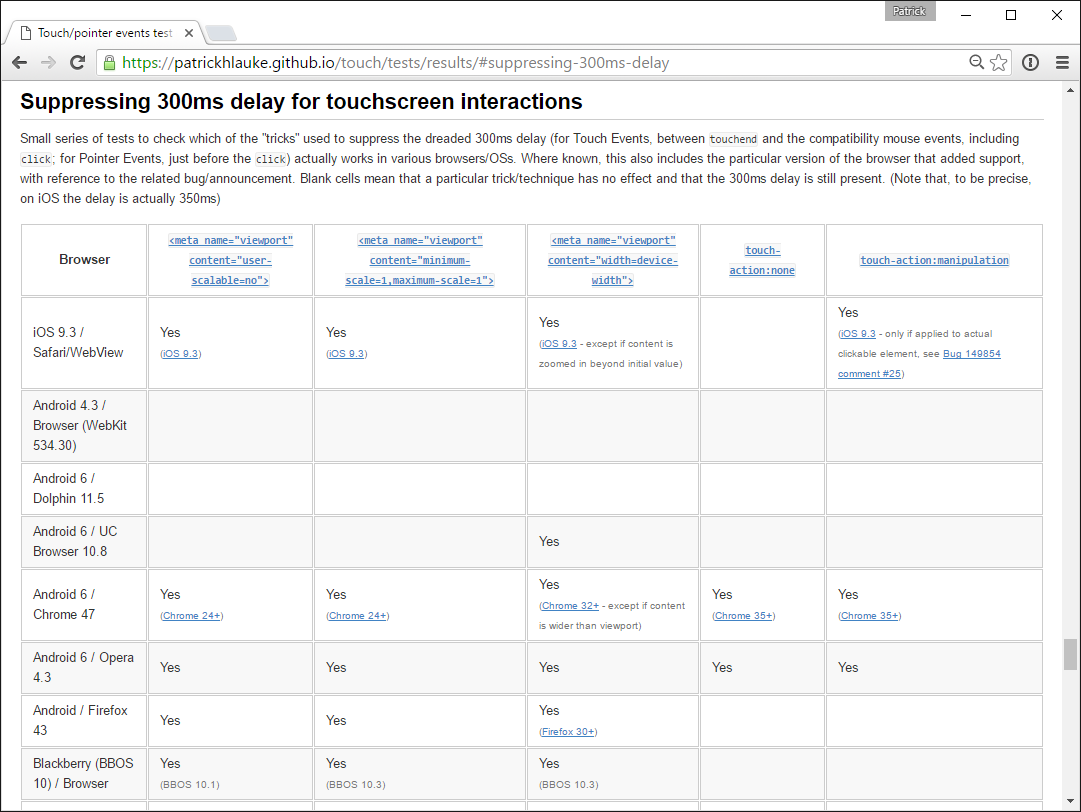
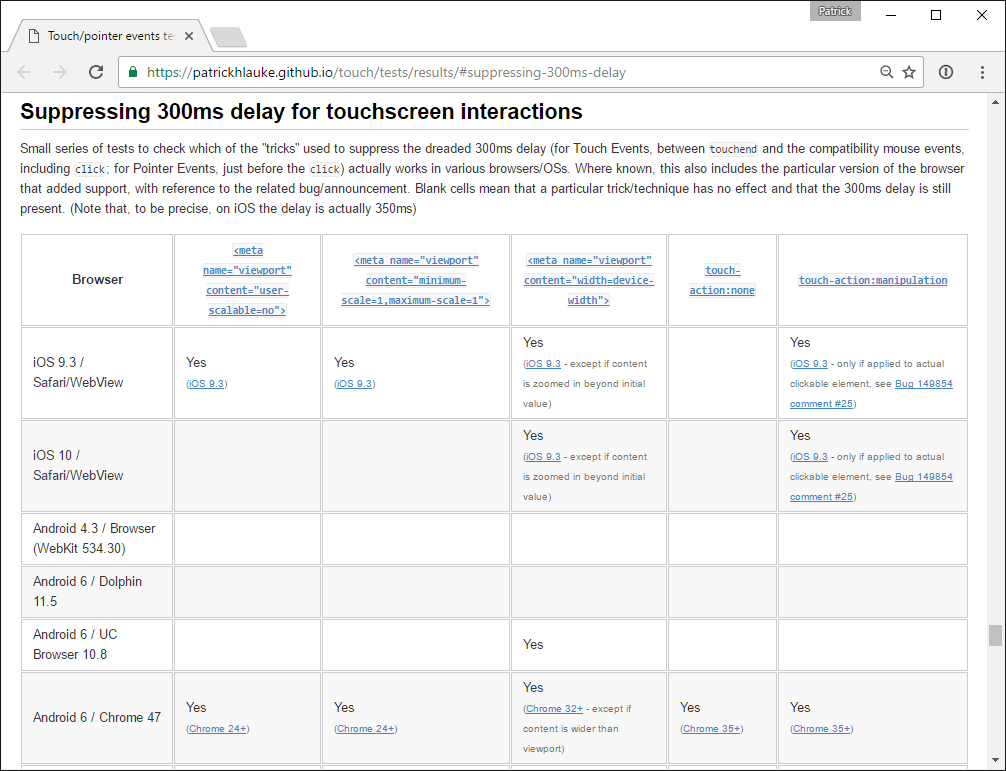
Safari iOS10 and its "always pinch-to-zoom" behavior

Changed region(s): [[0.0, 0.0, 1.0, 0.9961], [0.2773, 0.5292, 0.339, 0.5603], [0.6471, 0.965, 0.6779, 0.9961]]

diff --git a/index.html b/index.html
@@ -969,6 +969,14 @@ function someFunction(e) {
 
 <!-- -->
 
+<section class="slide"><div>
+    <img src="pictures/sites/twitter-thomas-fuchs-ios10beta-zoom.png" alt="Thomas Fuchs' tweet, including a screengrab from Safari/iOS10beta3 changelog: To improve accessibility on websites in Safari, users can now pinch-to-zoom">
+    <p><a target="_blank" href="https://twitter.com/thomasfuchs/status/742531231007559680/photo/1">@thomasfuchs - Safari/iOS10beta3 ignores unscalable viewports</a></p>
+    <p><small>(no official Apple documentation about the change...but the 300ms delay is back)</small></p>
+</div></section>
+
+<!-- -->
+
 <section class="slide impact"><div>
 <div>
 <p>what about <strong>accessibility</strong>?</p>
